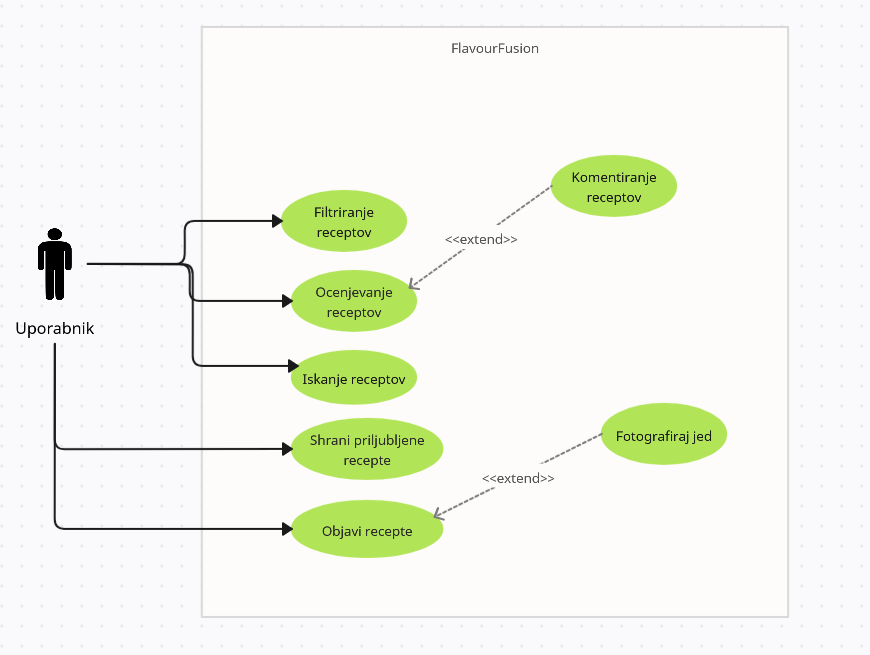
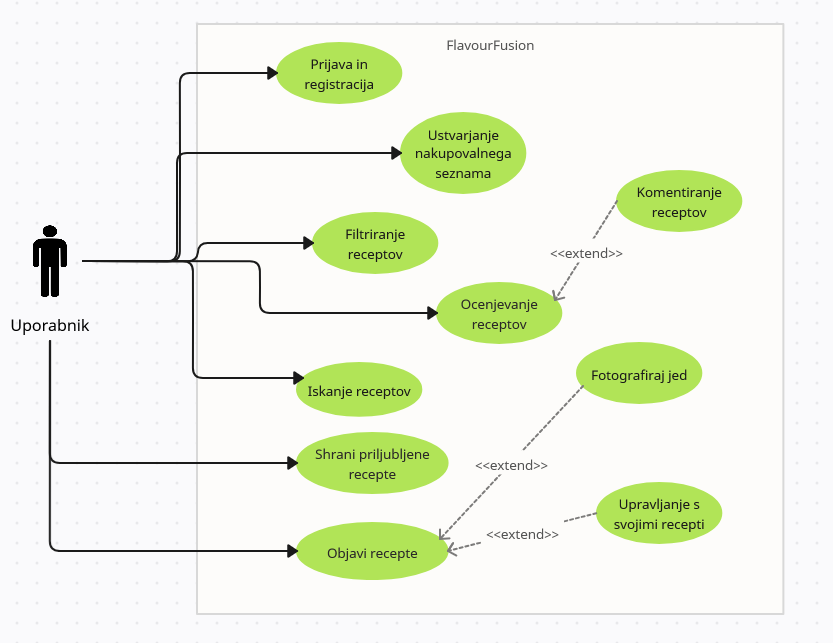
Spremenjene posebnosti.txt in obnovljen uml diagram

diff --git a/funkcionalnosti.html b/funkcionalnosti.html
@@ -53,23 +53,31 @@
     <div class="container">
         <h1>Funkcionalnosti FlavourFusion</h1>
         <p>FlavourFusion je inovativna aplikacija, ki omogoča hitro in enostavno iskanje receptov na podlagi sestavin, ki jih že imate doma. Optimizira porabo hrane, zmanjšuje odpadke in pomaga pri načrtovanju obrokov.</p>
+        
+        <h2>Glavne funkcionalnosti</h2>
         <ul>
             <li><strong>Iskanje receptov po sestavinah</strong> – uporabnik vnese sestavine, aplikacija vrne ustrezne recepte.</li>
-            <li><strong>Ustvarjanje nakupovalnega seznama</strong> – možnost shranjevanja sestavin za lažji nakup.</li>
             <li><strong>Filtriranje po prehranskih omejitvah</strong> – možnost iskanja receptov glede na diete (vegansko, brezglutensko, keto itd.).</li>
+            <li><strong>Ustvarjanje in urejanje nakupovalnega seznama</strong> – uporabniki lahko shranijo sestavine za lažji nakup in jih kasneje urejajo.</li>
             <li><strong>Shranjevanje priljubljenih receptov</strong> – uporabniki lahko shranijo najljubše recepte.</li>
+            <li><strong>Ocene in komentarji receptov</strong> – možnost ocenjevanja receptov in dodajanja komentarjev.</li>
+            <li><strong>Upravljanje lastnih receptov</strong> – dodajanje, urejanje in brisanje receptov.</li>
+            <li><strong>Prilagojena priporočila</strong> – aplikacija uporablja preference uporabnika in ponuja prilagojene predloge receptov.</li>
             <li><strong>Dostop brez povezave</strong> – kot PWA aplikacija omogoča ogled shranjenih receptov tudi brez interneta.</li>
-            <li><strong>Prilagojena priporočila</strong> – aplikacija se uči uporabnikovih preferenc in ponuja prilagojene predloge receptov.</li>
-            <li><strong>Deljenje receptov</strong> – omogoča hitro deljenje receptov s prijatelji prek družbenih omrežij.</li>
+            <li><strong>Prijava in upravljanje računa</strong> – uporabniki lahko ustvarijo račun, se prijavijo ter urejajo svoje podatke in preference.</li>
         </ul>
+
         <h2>Koraki uporabe aplikacije</h2>
         <ul>
+            <li>Prijavite se v svoj račun ali ustvarite novega.</li>
             <li>Vnesite sestavine, ki jih imate doma.</li>
             <li>Filtrirajte rezultate glede na prehranske omejitve in želje.</li>
             <li>Izberite recept, ki vam ustreza.</li>
             <li>Dodajte manjkajoče sestavine na nakupovalni seznam.</li>
+            <li>Ocenite recept ali dodajte komentar po kuhanju.</li>
             <li>Uživajte v kuhanju in delite svoj rezultat z drugimi!</li>
         </ul>
+
         <h2>UML Diagram Primerov Uporabe</h2>
         <img src="/diagram" alt="UML Diagram Primerov Uporabe">
     </div>

diff --git a/index.js b/index.js
@@ -5,7 +5,10 @@ const path = require('path');
 const server = http.createServer((req, res) => {
     console.log(`Zahteva prejeta: ${req.url}`);
 
-    if (req.url === '/funkcionalnosti-odjemalca/') {
+    if (req.url === '/') {
+        res.writeHead(200, { 'Content-Type': 'text/plain' });
+        res.end('Pozdravljeni na spletni strani!');
+    } else if (req.url === '/funkcionalnosti-odjemalca/') {
         serveHTML(res, 'funkcionalnosti.html');
     } else if (req.url === '/posebnosti/') {
         serveText(res, 'posebnosti.txt');
@@ -15,6 +18,7 @@ const server = http.createServer((req, res) => {
         res.writeHead(404, { 'Content-Type': 'text/plain' });
         res.end('Stran ni najdena');
     }
+
 });
 
 function serveHTML(res, filename) {
